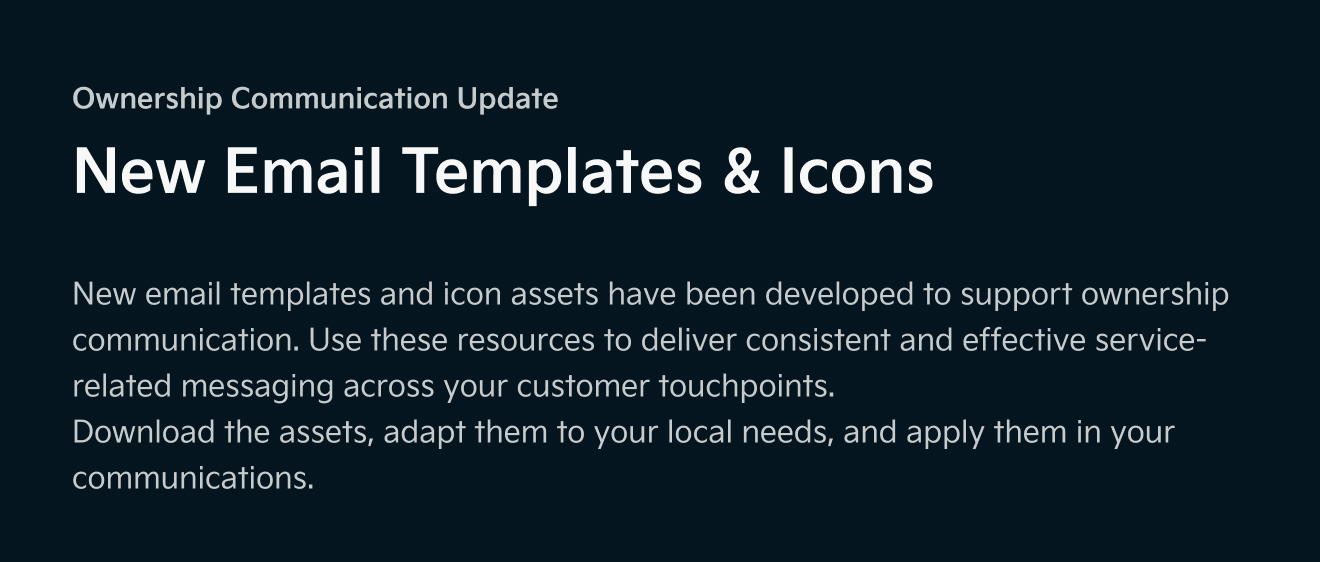
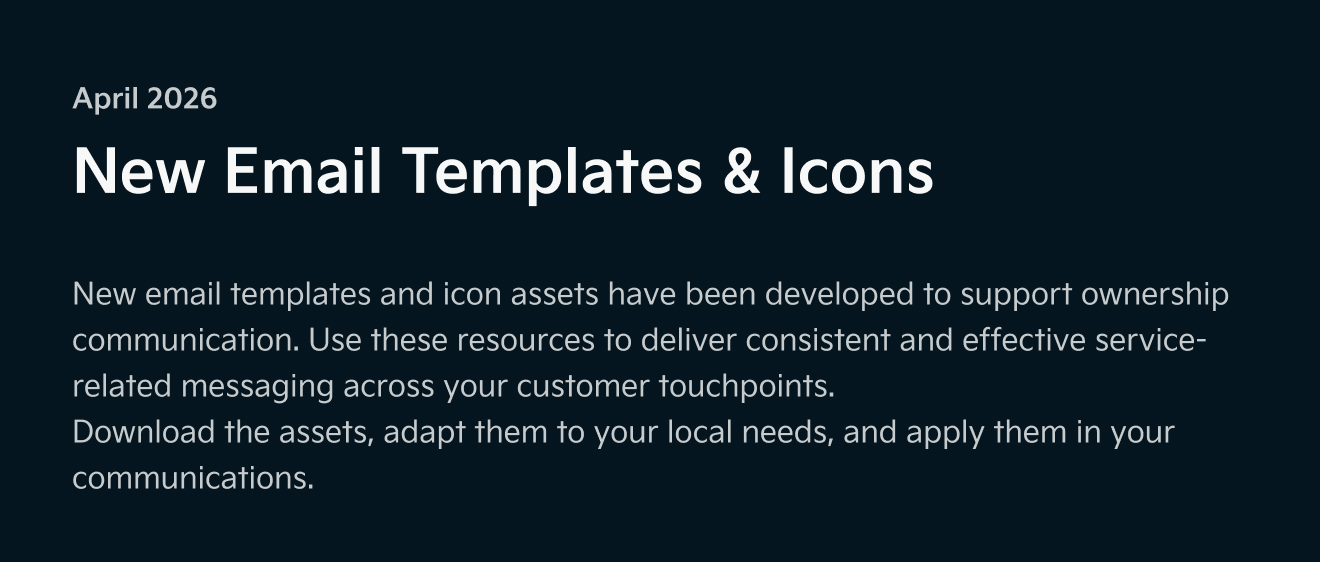
GITBOOK-338: No subject

Changed region(s): [[0.0311, 0.1512, 0.4348, 0.2117]]

diff --git a/newsletter-ownership.md b/newsletter-ownership.md
@@ -6,7 +6,7 @@ hidden: true
 
 ### 251110 - Img
 
-<div><figure><img src=".gitbook/assets/01.jpg" alt=""><figcaption></figcaption></figure> <figure><img src=".gitbook/assets/02.jpg" alt=""><figcaption></figcaption></figure> <figure><img src=".gitbook/assets/03 (1) (1).jpg" alt=""><figcaption></figcaption></figure> <figure><img src=".gitbook/assets/04.jpg" alt=""><figcaption></figcaption></figure> <figure><img src=".gitbook/assets/05-1.jpg" alt=""><figcaption></figcaption></figure> <figure><img src=".gitbook/assets/05-2.jpg" alt=""><figcaption></figcaption></figure> <figure><img src=".gitbook/assets/06-1 (1).jpg" alt=""><figcaption></figcaption></figure> <figure><img src=".gitbook/assets/06-2 (1).jpg" alt=""><figcaption></figcaption></figure> <figure><img src=".gitbook/assets/07-1.jpg" alt=""><figcaption></figcaption></figure> <figure><img src=".gitbook/assets/07-2 (2).jpg" alt=""><figcaption></figcaption></figure> <figure><img src=".gitbook/assets/08.jpg" alt=""><figcaption></figcaption></figure> <figure><img src=".gitbook/assets/09.jpg" alt=""><figcaption></figcaption></figure> <figure><img src=".gitbook/assets/10.jpg" alt=""><figcaption></figcaption></figure> <figure><img src=".gitbook/assets/11.jpg" alt=""><figcaption></figcaption></figure> <figure><img src=".gitbook/assets/12.jpg" alt=""><figcaption></figcaption></figure> <figure><img src=".gitbook/assets/13.jpg" alt=""><figcaption></figcaption></figure></div>
+<div><figure><img src=".gitbook/assets/01.jpg" alt=""><figcaption></figcaption></figure> <figure><img src=".gitbook/assets/02.jpg" alt=""><figcaption></figcaption></figure> <figure><img src=".gitbook/assets/03 (1) (1) (1).jpg" alt=""><figcaption></figcaption></figure> <figure><img src=".gitbook/assets/04.jpg" alt=""><figcaption></figcaption></figure> <figure><img src=".gitbook/assets/05-1.jpg" alt=""><figcaption></figcaption></figure> <figure><img src=".gitbook/assets/05-2.jpg" alt=""><figcaption></figcaption></figure> <figure><img src=".gitbook/assets/06-1 (1).jpg" alt=""><figcaption></figcaption></figure> <figure><img src=".gitbook/assets/06-2 (1).jpg" alt=""><figcaption></figcaption></figure> <figure><img src=".gitbook/assets/07-1.jpg" alt=""><figcaption></figcaption></figure> <figure><img src=".gitbook/assets/07-2 (2).jpg" alt=""><figcaption></figcaption></figure> <figure><img src=".gitbook/assets/08.jpg" alt=""><figcaption></figcaption></figure> <figure><img src=".gitbook/assets/09.jpg" alt=""><figcaption></figcaption></figure> <figure><img src=".gitbook/assets/10.jpg" alt=""><figcaption></figcaption></figure> <figure><img src=".gitbook/assets/11.jpg" alt=""><figcaption></figcaption></figure> <figure><img src=".gitbook/assets/12.jpg" alt=""><figcaption></figcaption></figure> <figure><img src=".gitbook/assets/13.jpg" alt=""><figcaption></figcaption></figure></div>
 
 <div><figure><img src=".gitbook/assets/08 (1).jpg" alt=""><figcaption></figcaption></figure> <figure><img src=".gitbook/assets/09 (1).jpg" alt=""><figcaption></figcaption></figure></div>
 

diff --git a/newsletter-img.md b/newsletter-img.md
@@ -28,11 +28,13 @@ hidden: true
 
 <summary>eDM/아이콘 뉴스레터 에셋</summary>
 
-<div><figure><img src=".gitbook/assets/02_660x376-251106 (1).jpg" alt=""><figcaption></figcaption></figure> <figure><img src=".gitbook/assets/05-title.png" alt=""><figcaption></figcaption></figure> <figure><img src=".gitbook/assets/06-1.jpg" alt=""><figcaption></figcaption></figure> <figure><img src=".gitbook/assets/06-2.jpg" alt=""><figcaption></figcaption></figure></div>
+<div><figure><img src=".gitbook/assets/05-title.png" alt=""><figcaption></figcaption></figure> <figure><img src=".gitbook/assets/06-2.jpg" alt=""><figcaption></figcaption></figure> <figure><img src=".gitbook/assets/Frame 2405.jpg" alt=""><figcaption></figcaption></figure></div>
 
-<figure><img src=".gitbook/assets/Sequence01_2-ezgif.com-video-to-gif-converter.gif" alt=""><figcaption></figcaption></figure>
+<div><figure><img src=".gitbook/assets/03.jpg" alt=""><figcaption></figcaption></figure> <figure><img src=".gitbook/assets/04_660x40-251106 (2).jpg" alt=""><figcaption></figcaption></figure></div>
 
-<div><figure><img src=".gitbook/assets/03 (3).jpg" alt=""><figcaption></figcaption></figure> <figure><img src=".gitbook/assets/04_660x40-251106 (2).jpg" alt=""><figcaption></figcaption></figure></div>
+<figure><img src=".gitbook/assets/Sequence01_1-ezgif.com-video-to-gif-converter.gif" alt=""><figcaption></figcaption></figure>
+
+<figure><img src=".gitbook/assets/02_660x376-251106 (2).jpg" alt=""><figcaption></figcaption></figure>
 
 </details>
 
@@ -47,6 +49,16 @@ hidden: true
 <figure><img src=".gitbook/assets/kv-01.gif" alt=""><figcaption></figcaption></figure>
 
 <figure><img src=".gitbook/assets/kv-01-1.gif" alt=""><figcaption></figcaption></figure>
+
+<figure><img src=".gitbook/assets/02_660x376-251106 (1).png" alt=""><figcaption></figcaption></figure>
+
+
+
+</details>
+
+<details>
+
+<summary></summary>
 
 
 
@@ -104,7 +116,7 @@ hidden: true
 
 03
 
-<figure><img src=".gitbook/assets/03 (1) (1) (1).jpg" alt=""><figcaption></figcaption></figure>
+<figure><img src=".gitbook/assets/03 (1) (1) (1) (1).jpg" alt=""><figcaption></figcaption></figure>
 
 04
 
